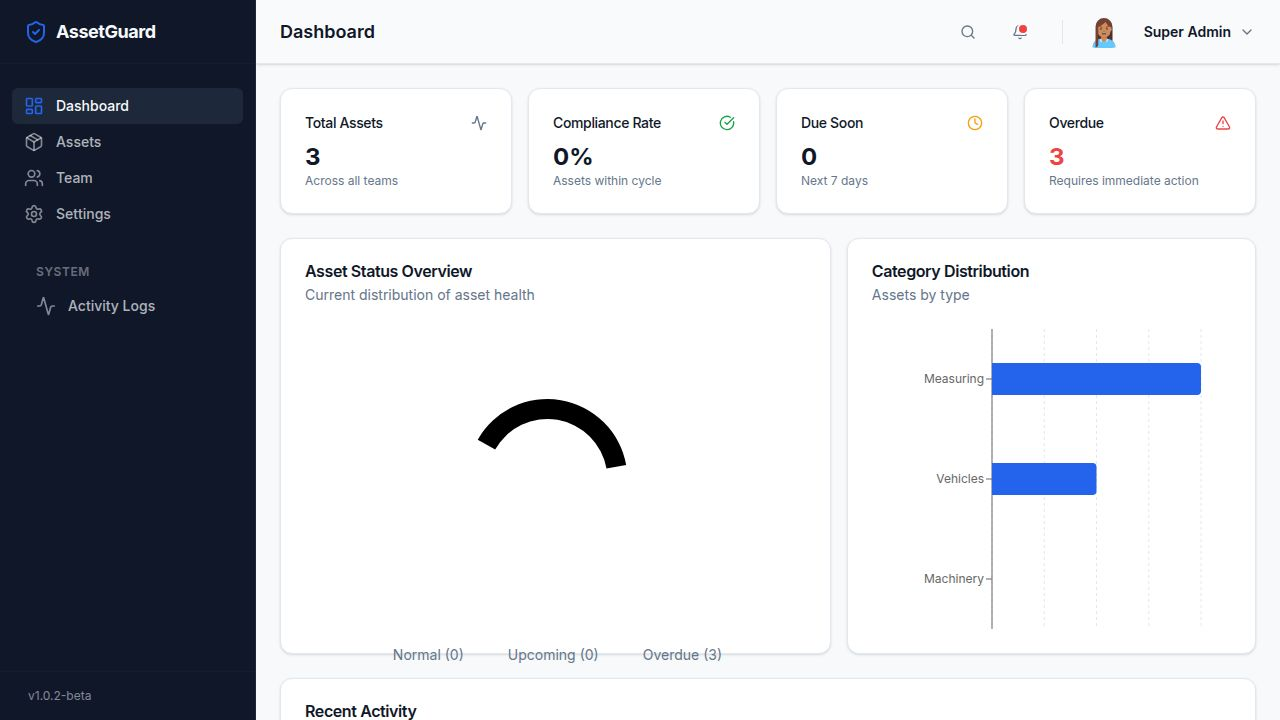
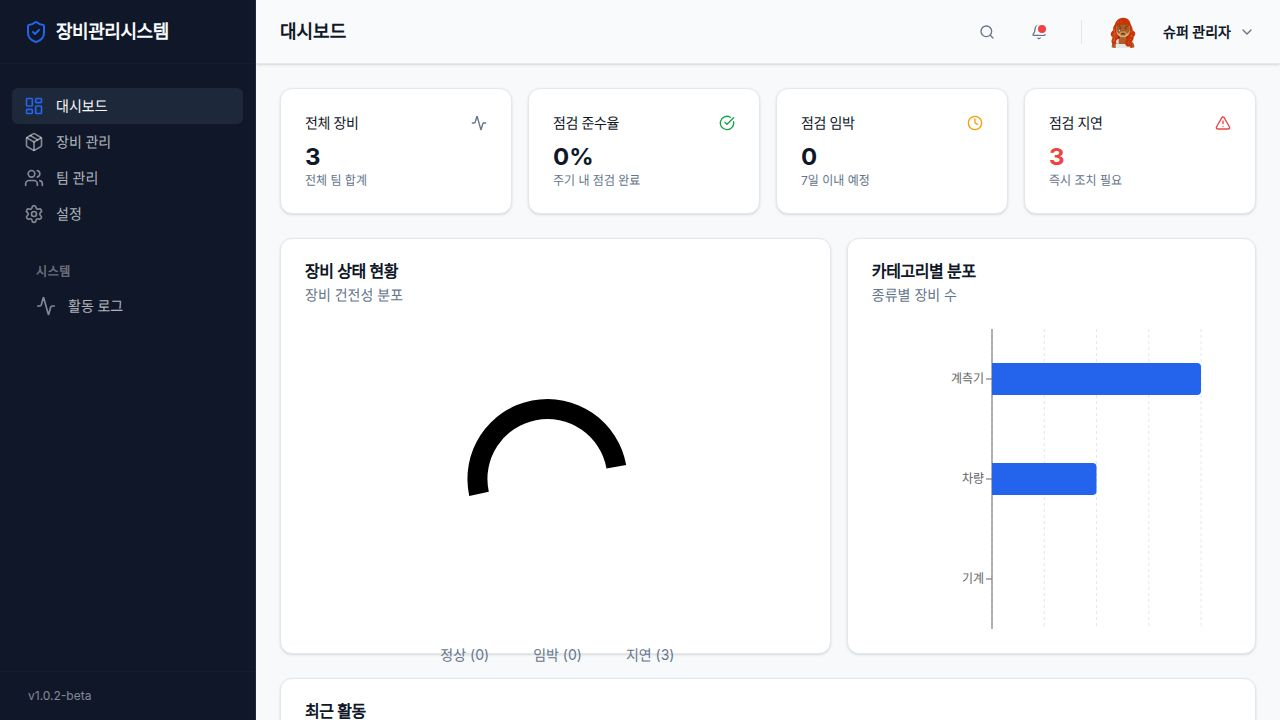
Update system name and add equipment editing and deletion features
Update system name to '장비관리시스템' and add edit and delete functionality to the equipment management page.

Replit-Commit-Author: Agent
Replit-Commit-Session-Id: e8fe0ff3-7578-4c83-9c65-e80139afc5fb
Replit-Commit-Checkpoint-Type: full_checkpoint
Replit-Commit-Event-Id: 666586eb-9dcc-411a-ba2f-744f035acf55
Replit-Commit-Screenshot-Url: https://storage.googleapis.com/screenshot-production-us-central1/6fd795d9-87d9-4527-958d-34edada3b5ca/e8fe0ff3-7578-4c83-9c65-e80139afc5fb/e4H07a0
Replit-Helium-Checkpoint-Created: true

diff --git a/client/src/pages/Assets.tsx b/client/src/pages/Assets.tsx
@@ -38,8 +38,19 @@ import {
   Search, 
   CheckCircle2, 
   AlertCircle, 
-  Clock 
+  Clock,
+  Pencil,
+  Trash2,
+  MoreHorizontal
 } from "lucide-react";
+import { 
+  DropdownMenu, 
+  DropdownMenuContent, 
+  DropdownMenuItem, 
+  DropdownMenuLabel, 
+  DropdownMenuSeparator, 
+  DropdownMenuTrigger 
+} from "@/components/ui/dropdown-menu";
 import { cn } from "@/lib/utils";
 import { useToast } from "@/hooks/use-toast";
 import { useForm } from "react-hook-form";
@@ -82,6 +93,25 @@ export default function Assets() {
         description: `다음 점검 예정일이 계산되었습니다: ${updated.nextDueDate}`,
       });
     }
+  };
+
+  const handleDelete = (id: string) => {
+    store.deleteAsset(id);
+    setAssets([...store.getAssets()]);
+    toast({
+      title: "장비 삭제 완료",
+      description: "장비가 목록에서 제거되었습니다.",
+      variant: "destructive"
+    });
+  };
+
+  const handleEdit = (id: string, data: Partial<Asset>) => {
+    store.updateAsset(id, data);
+    setAssets([...store.getAssets()]);
+    toast({
+      title: "장비 수정 완료",
+      description: "장비 정보가 업데이트되었습니다."
+    });
   };
 
   return (
@@ -153,7 +183,23 @@ export default function Assets() {
                   </TableCell>
                   <TableCell>{getStatusBadge(asset.status)}</TableCell>
                   <TableCell className="text-right">
-                    <InspectDialog asset={asset} onInspect={handleInspect} />
+                    <div className="flex justify-end gap-2">
+                      <InspectDialog asset={asset} onInspect={handleInspect} />
+                      <DropdownMenu>
+                        <DropdownMenuTrigger asChild>
+                          <Button variant="ghost" className="h-8 w-8 p-0">
+                            <span className="sr-only">Open menu</span>
+                            <MoreHorizontal className="h-4 w-4" />
+                          </Button>
+                        </DropdownMenuTrigger>
+                        <DropdownMenuContent align="end">
+                          <DropdownMenuLabel>작업</DropdownMenuLabel>
+                          <EditAssetDialog asset={asset} onEdit={handleEdit} />
+                          <DropdownMenuSeparator />
+                          <DeleteAssetDialog asset={asset} onDelete={handleDelete} />
+                        </DropdownMenuContent>
+                      </DropdownMenu>
+                    </div>
                   </TableCell>
                 </TableRow>
               ))
@@ -215,6 +261,105 @@ function InspectDialog({ asset, onInspect }: { asset: Asset, onInspect: (id: str
               setOpen(false);
             }
           }}>업데이트 확인</Button>
+        </DialogFooter>
+      </DialogContent>
+    </Dialog>
+  );
+}
+
+function EditAssetDialog({ asset, onEdit }: { asset: Asset, onEdit: (id: string, data: Partial<Asset>) => void }) {
+  const [open, setOpen] = useState(false);
+  const { register, handleSubmit } = useForm({
+    defaultValues: {
+      name: asset.name,
+      serialNumber: asset.serialNumber,
+      categoryId: asset.categoryId,
+      inspectionCycleDays: asset.inspectionCycleDays
+    }
+  });
+
+  const onSubmit = (data: any) => {
+    onEdit(asset.id, {
+      ...data,
+      inspectionCycleDays: parseInt(data.inspectionCycleDays)
+    });
+    setOpen(false);
+  };
+
+  return (
+    <Dialog open={open} onOpenChange={setOpen}>
+      <DialogTrigger asChild>
+        <DropdownMenuItem onSelect={(e) => e.preventDefault()}>
+          <Pencil className="mr-2 h-4 w-4" />
+          수정
+        </DropdownMenuItem>
+      </DialogTrigger>
+      <DialogContent className="sm:max-w-[425px]">
+        <DialogHeader>
+          <DialogTitle>장비 정보 수정</DialogTitle>
+          <DialogDescription>
+            장비 정보를 수정합니다.
+          </DialogDescription>
+        </DialogHeader>
+        <form onSubmit={handleSubmit(onSubmit)} className="space-y-4">
+          <div className="space-y-2">
+            <Label htmlFor="edit-name">장비명</Label>
+            <Input id="edit-name" {...register("name", { required: true })} />
+          </div>
+          <div className="space-y-2">
+            <Label htmlFor="edit-serial">시리얼 넘버</Label>
+            <Input id="edit-serial" {...register("serialNumber", { required: true })} />
+          </div>
+          <div className="grid grid-cols-2 gap-4">
+             <div className="space-y-2">
+              <Label htmlFor="edit-category">카테고리</Label>
+              <Select defaultValue={asset.categoryId} onValueChange={(v) => register("categoryId").onChange({ target: { value: v, name: "categoryId" } })}>
+                <SelectTrigger>
+                  <SelectValue />
+                </SelectTrigger>
+                <SelectContent>
+                  {CATEGORIES.map(c => <SelectItem key={c.id} value={c.id}>{c.name}</SelectItem>)}
+                </SelectContent>
+              </Select>
+            </div>
+            <div className="space-y-2">
+              <Label htmlFor="edit-cycle">점검 주기 (일)</Label>
+              <Input id="edit-cycle" type="number" {...register("inspectionCycleDays", { required: true })} />
+            </div>
+          </div>
+          <DialogFooter>
+            <Button type="submit">저장</Button>
+          </DialogFooter>
+        </form>
+      </DialogContent>
+    </Dialog>
+  );
+}
+
+function DeleteAssetDialog({ asset, onDelete }: { asset: Asset, onDelete: (id: string) => void }) {
+  const [open, setOpen] = useState(false);
+
+  return (
+    <Dialog open={open} onOpenChange={setOpen}>
+      <DialogTrigger asChild>
+        <DropdownMenuItem onSelect={(e) => e.preventDefault()} className="text-destructive focus:text-destructive">
+          <Trash2 className="mr-2 h-4 w-4" />
+          삭제
+        </DropdownMenuItem>
+      </DialogTrigger>
+      <DialogContent className="sm:max-w-[425px]">
+        <DialogHeader>
+          <DialogTitle>장비 삭제</DialogTitle>
+          <DialogDescription>
+            정말로 <strong>{asset.name}</strong> 장비를 삭제하시겠습니까? 이 작업은 되돌릴 수 없습니다.
+          </DialogDescription>
+        </DialogHeader>
+        <DialogFooter>
+          <Button variant="outline" onClick={() => setOpen(false)}>취소</Button>
+          <Button variant="destructive" onClick={() => {
+            onDelete(asset.id);
+            setOpen(false);
+          }}>삭제</Button>
         </DialogFooter>
       </DialogContent>
     </Dialog>

diff --git a/client/index.html b/client/index.html
@@ -4,13 +4,13 @@
     <meta charset="UTF-8" />
     <meta name="viewport" content="width=device-width, initial-scale=1.0, maximum-scale=1" />
 
-    <meta property="og:title" content="AssetGuard - Equipment Management System" />
+    <meta property="og:title" content="장비관리시스템" />
     <meta property="og:description" content="Professional asset management and calibration tracking system." />
     <meta property="og:type" content="website" />
     <meta property="og:image" content="https://replit.com/public/images/opengraph.png" />
     <meta name="twitter:card" content="summary_large_image" />
     <meta name="twitter:site" content="@replit" />
-    <meta name="twitter:title" content="AssetGuard" />
+    <meta name="twitter:title" content="장비관리시스템" />
     <meta name="twitter:description" content="Professional asset management and calibration tracking system." />
     <meta name="twitter:image" content="https://replit.com/public/images/opengraph.png" />
 

diff --git a/client/src/components/layout/Header.tsx b/client/src/components/layout/Header.tsx
@@ -37,7 +37,7 @@ export function Header() {
       case '/assets': return '장비 관리';
       case '/team': return '팀 현황';
       case '/settings': return '시스템 설정';
-      default: return 'AssetGuard';
+      default: return '장비관리시스템';
     }
   };
 

diff --git a/client/src/components/layout/Sidebar.tsx b/client/src/components/layout/Sidebar.tsx
@@ -23,7 +23,7 @@ export function Sidebar() {
     <div className="flex h-full w-64 flex-col bg-sidebar text-sidebar-foreground border-r border-sidebar-border">
       <div className="flex h-16 items-center px-6 border-b border-sidebar-border/40">
         <ShieldCheck className="h-6 w-6 text-sidebar-primary mr-2" />
-        <span className="text-lg font-bold tracking-tight">AssetGuard</span>
+        <span className="text-lg font-bold tracking-tight">장비관리시스템</span>
       </div>
       
       <div className="flex-1 overflow-y-auto py-6 px-3">